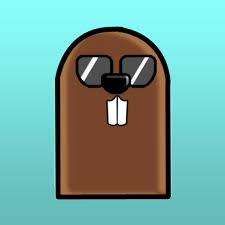
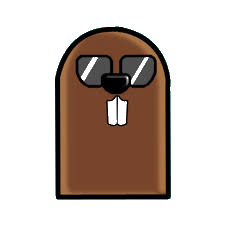
Add files via upload

diff --git a/app.js b/app.js
@@ -1,5 +1,5 @@
 /**
- * Whack-A-Mole - Game Script (Garden Theme with transparent assets)
+ * Whack-A-Mole - Game Script (Garden Theme)
  */
 
 // --- SOUND MANAGER (Web Audio API Synthesizer) ---
@@ -200,76 +200,6 @@ class SoundManager {
 }
 
 const sounds = new SoundManager();
-
-// --- IMAGE BACKGROUND PRE-PROCESSOR (Chroma Key) ---
-const ASSETS = {
-    mole: 'assets/mole.png',
-    bomb: 'assets/bomb.png',
-    moleTransparent: '',
-    bombTransparent: ''
-};
-
-/**
- * Removes background color from an image using HTML5 Canvas.
- * Detects key color at top-left corner and clears matching pixels.
- */
-function removeBackgroundColor(imageSrc, callback, tolerance = 45, isBomb = false) {
-    const img = new Image();
-    img.crossOrigin = "anonymous";
-    img.onload = function() {
-        const canvas = document.createElement('canvas');
-        canvas.width = img.width;
-        canvas.height = img.height;
-        const ctx = canvas.getContext('2d');
-        ctx.drawImage(img, 0, 0);
-        
-        // Remove watermark text for bomb image (clears bottom 12%)
-        if (isBomb) {
-            ctx.clearRect(0, canvas.height * 0.88, canvas.width, canvas.height * 0.12);
-        }
-        
-        const imgData = ctx.getImageData(0, 0, canvas.width, canvas.height);
-        const data = imgData.data;
-        
-        // Sample background key color at top-left corner (0,0)
-        const keyR = data[0];
-        const keyG = data[1];
-        const keyB = data[2];
-        
-        for (let i = 0; i < data.length; i += 4) {
-            const r = data[i];
-            const g = data[i+1];
-            const b = data[i+2];
-            const a = data[i+3];
-            
-            if (a === 0) continue; // Skip already transparent
-            
-            // Calculate distance in RGB space
-            const dist = Math.sqrt(
-                Math.pow(r - keyR, 2) +
-                Math.pow(g - keyG, 2) +
-                Math.pow(b - keyB, 2)
-            );
-            
-            if (dist < tolerance) {
-                data[i+3] = 0; // Set alpha to 0
-            }
-        }
-        
-        ctx.putImageData(imgData, 0, 0);
-        callback(canvas.toDataURL());
-    };
-    img.src = imageSrc;
-}
-
-// Pre-process images immediately on load
-removeBackgroundColor(ASSETS.mole, (dataUrl) => {
-    ASSETS.moleTransparent = dataUrl;
-}, 75, false);
-
-removeBackgroundColor(ASSETS.bomb, (dataUrl) => {
-    ASSETS.bombTransparent = dataUrl;
-}, 25, true);
 
 // --- GAME STATE ---
 const STATE = {
@@ -694,14 +624,14 @@ function spawnMole() {
     // Determine type: 80% Normal, 10% Gold, 10% Bomb
     const rand = Math.random();
     let type = 'normal';
-    let imageSrc = ASSETS.moleTransparent || ASSETS.mole;
+    let imageSrc = 'assets/mole.png';
     
     if (rand < 0.1) {
         type = 'gold';
-        imageSrc = ASSETS.moleTransparent || ASSETS.mole;
+        imageSrc = 'assets/mole.png';
     } else if (rand < 0.2) {
         type = 'bomb';
-        imageSrc = ASSETS.bombTransparent || ASSETS.bomb;
+        imageSrc = 'assets/bomb.png';
     }
 
     const mole = document.createElement('div');
@@ -736,7 +666,7 @@ function spawnMole() {
         }
     }, duration);
 
-    // Whack action (Do NOT call stopPropagation so the toy hammer swing triggers naturally)
+    // Whack action (Bubbles up to document so toy hammer swings naturally)
     mole.addEventListener('mousedown', (e) => {
         if (!STATE.isPlaying || STATE.isPaused || mole.dataset.whacked === 'true') return;
 